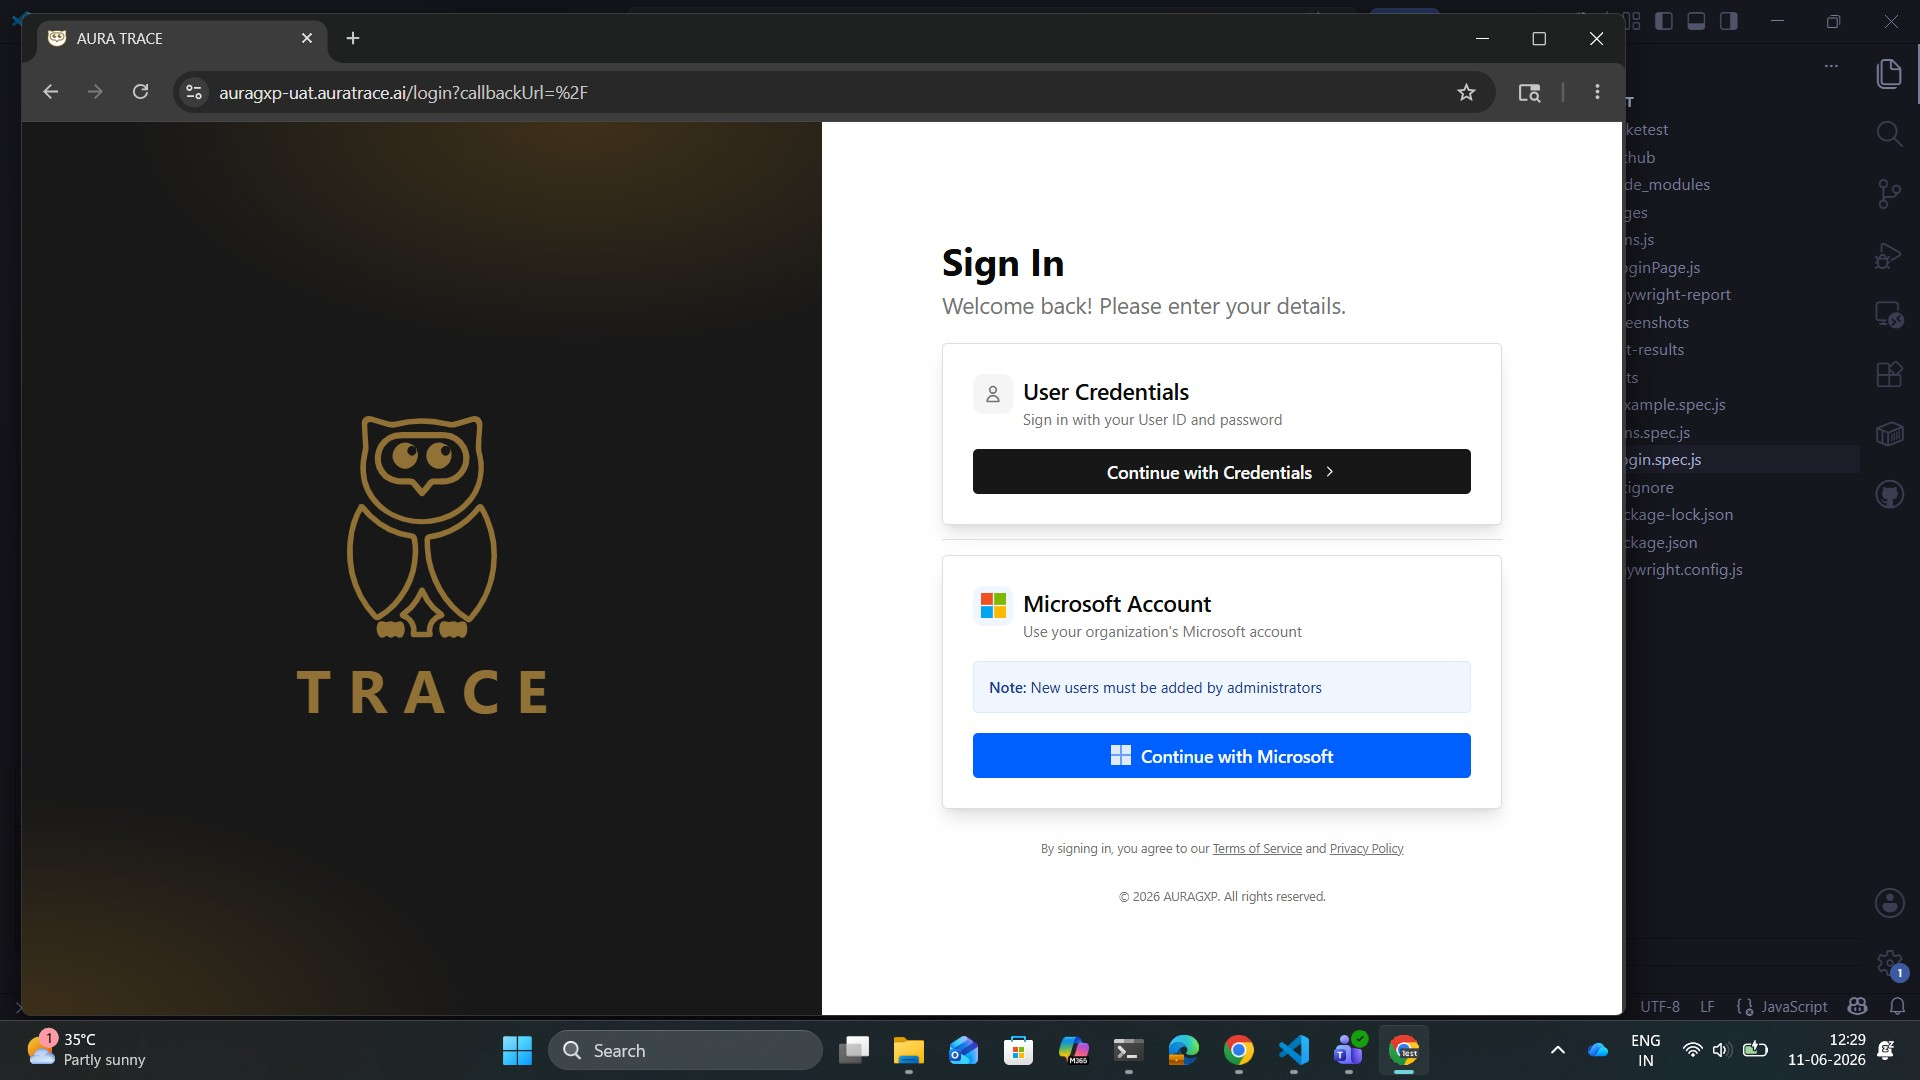
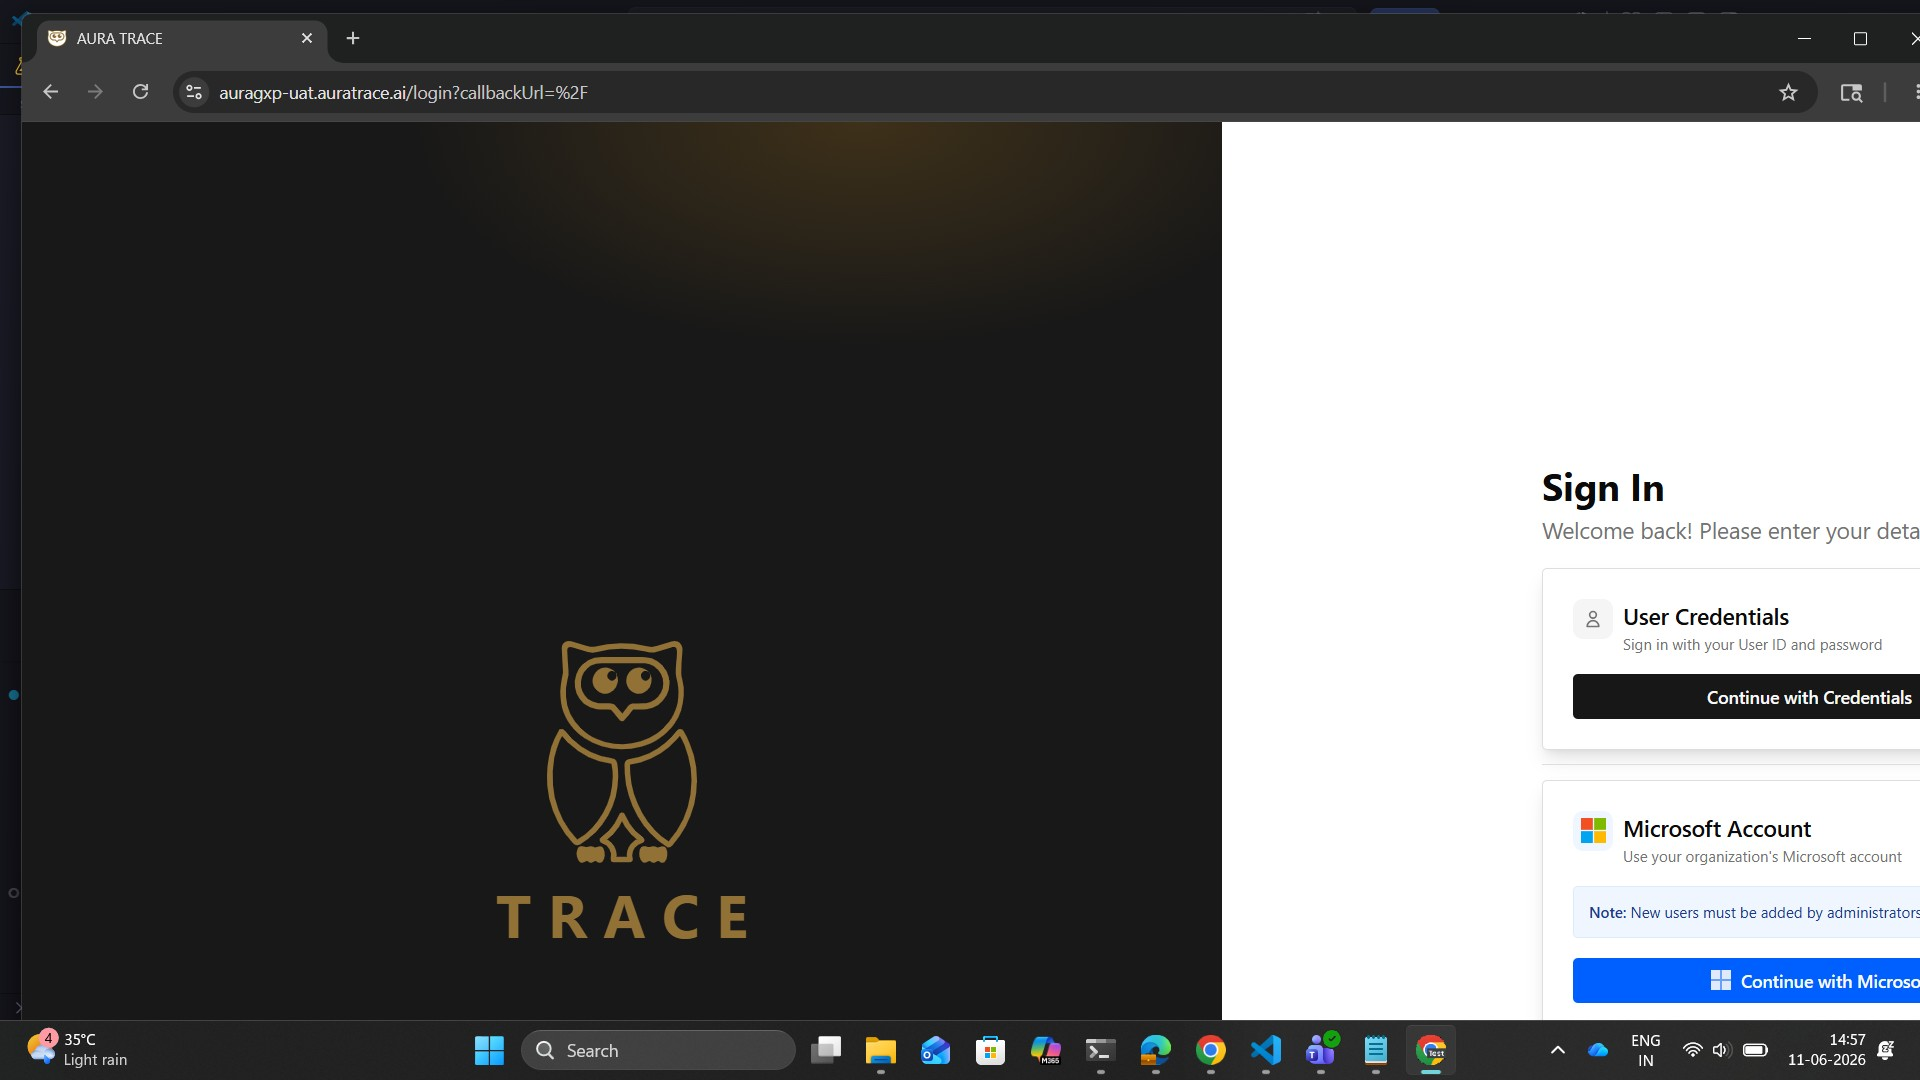
config

diff --git a/tests/login.spec.js b/tests/login.spec.js
@@ -3,10 +3,10 @@ import loginPage from '../pages/loginPage.js';
 import screenshot from 'screenshot-desktop';
 
 test('@login Login Test', async ({ page }) => {
-    // await page.setViewportSize({
-    //     width: 1920,
-    //     height: 1080
-    // });
+    await page.setViewportSize({
+        width: 1920,
+        height: 1080
+    });
 
     const login = new loginPage(page);
 
@@ -14,7 +14,8 @@ test('@login Login Test', async ({ page }) => {
     await screenshot({ filename: './screenshots/login-page.jpg',fullpage: true });
 
     await login.login('admin@auragxp.com', 'admin@12345');
-    await page.waitForTimeout(5000);
     await screenshot({ filename: './screenshots/cred-page.jpg',fullpage: true });
+    await page.waitForTimeout(5000);
+    
 
 });

diff --git a/pages/loginPage.js b/pages/loginPage.js
@@ -23,10 +23,11 @@ class loginPage{
             await this.credentials.click();
             await this.usernameInput.fill(username);
             await this.passwordInput.fill(password);
+            await this.page.waitForTimeout(3000);
             await this.loginButton.click();
-            // await this.selOrg.click();
-            // await this.opt.click();
-            // await this.proceed.click();
+            await this.selOrg.click();
+            await this.opt.click();
+            await this.proceed.click();
         }
 
 

diff --git a/playwright.config.js b/playwright.config.js
@@ -31,7 +31,14 @@ export default defineConfig({
 
     /* Collect trace when retrying the failed test. See https://playwright.dev/docs/trace-viewer */
     trace: 'on-first-retry',
+    viewpoert : null,
+    lunchOptions: {
+      args: ['--start-maximized']
+
+    },
   },
+
+  
 
   /* Configure projects for major browsers */
   projects: [
